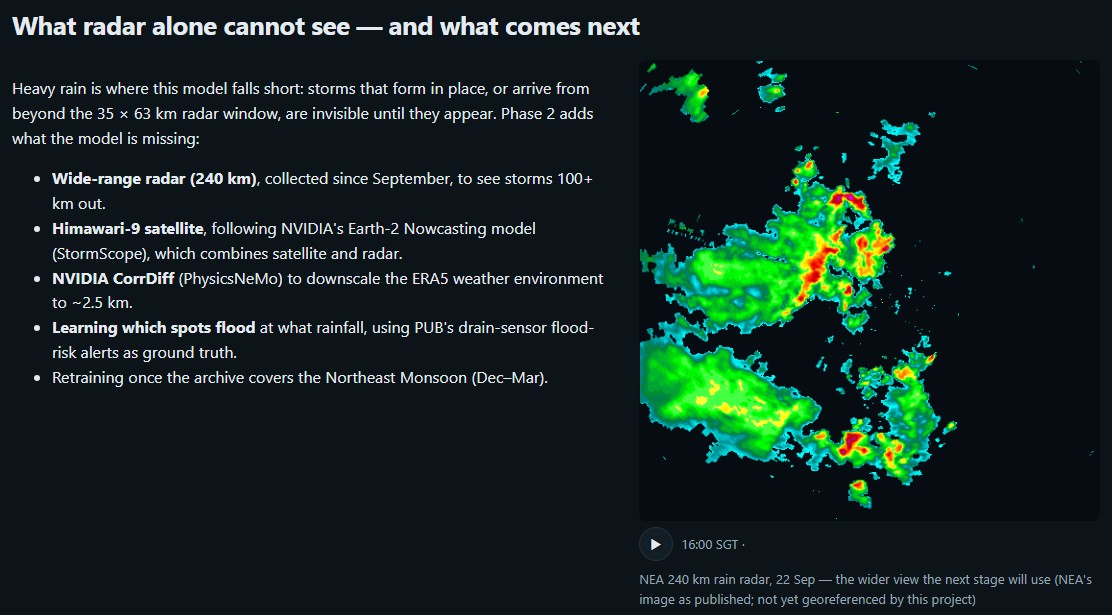
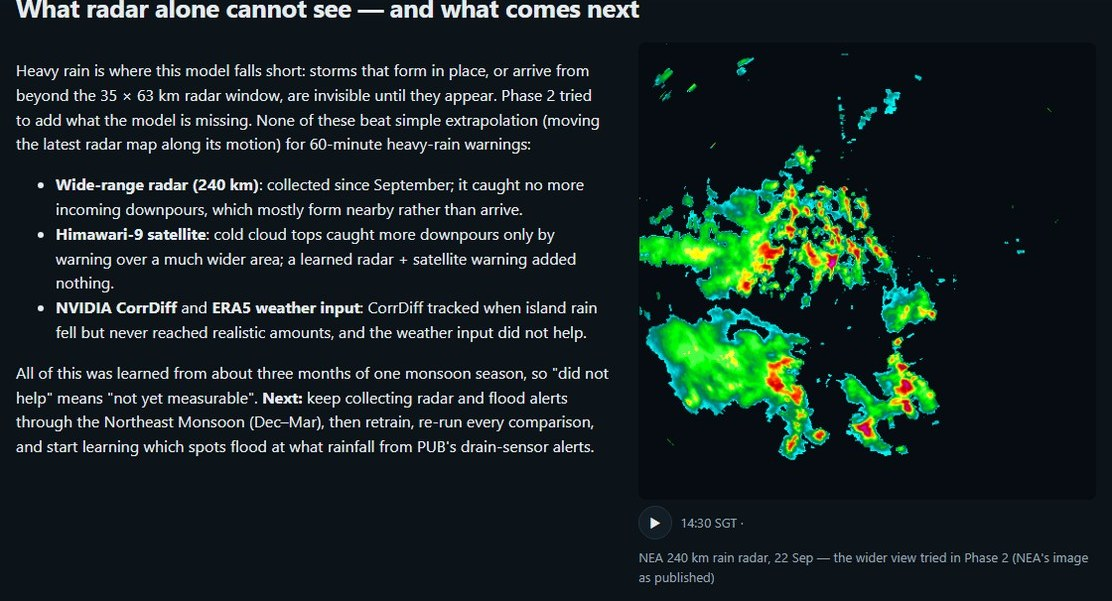
docs(todo): wrap-up done - collection-mode runbook and resume plan (mid-Jan check-in, ~Apr 2027 resume)
Resume point rewritten for collection mode (laptop on every ~6 days, monthly gap status,
optional case studies, Apr 2027 retrain + scripted re-runs incl. 30 Sep events in RESULTS 3/3b).
progress_tracking.json synced. README screenshot 6 retaken (headless) to show the updated
"what radar alone cannot see" section; caption updated.

diff --git a/tasks/todo.md b/tasks/todo.md
@@ -34,15 +34,20 @@
 - [x] Satellite Step 1 spike (2026-09-29): **GO (weak)**. Himawari cold-cloud rule + extrapolation at 60 min: incoming catch +28 pts [+7, +45], CSI -0.013 [-0.031, +0.018], but 5x warnings and precision 18% -> 9%; initiation barely caught (L036). Parallax ~16 km W, 6 km S. results/satellite_spike.json.
 - [x] Satellite Step 2A (2026-09-30): **DO NOT KEEP**. At matched warning volume, the radar+satellite classifier's CSI is 0.021 vs extrapolation's 0.093 (L_RS-E CSI -0.072 [-0.112,-0.005]). Hour-of-day features made both classifiers warn in the morning while the test storms came in the afternoon (L037). Post-hoc, without the hour features: satellite adds +0.000 [-0.023,+0.024] over radar, and neither beats extrapolation. Extrapolation stays the 60-min warning. Step 2B/3 not run. Satellite paused until a longer record (NE Monsoon). Verdict in `tasks/plan_satellite_step2.md`; results/satellite_warning{,_posthoc}.json.
 
-> **RESUME HERE (2026-09-30 morning):** nothing is running; everything is committed and pushed. Satellite Step 2A finished: DO NOT KEEP (see above). Himawari cache (21 May-27 Sep, ~0.5 GB) kept for a later retry.
-> **Direction (recommended 2026-09-30, user deciding):** stop new experiments. Every 60-90 min idea has failed on ~100 days of one monsoon season. Plan: (1) a half-day wrap-up, then (2) collect-only mode with a monthly `check_radar_gaps.py --status`, then (3) around Apr 2027, after the NE Monsoon: retrain, rerun the scripted comparisons incl. satellite, start F2.
-> **When the user says "start the half-day wrap-up":**
-> (a) README + docs/RESULTS "what we tried" + LIMITATIONS: add the satellite spike and Step 2A (the verdict tables are in plan_satellite.md / plan_satellite_step2.md) plus the summary "negative results at 60-90 min are data-limited";
-> (b) 27 Sep second case study (the unchecked item above: notebook 02 section, dashboard, docs/RESULTS);
-> (c) rebuild and verify the dashboard (`scripts/build_dashboard.py`, check in Chrome);
-> (d) remind the user of the pending LinkedIn post (content/linkedin_post_phase1.md);
-> (e) one commit per part, push.
-> Not decided yet: whether to wrap up at all. Do not start without the user. After restart run `python scripts/check_radar_gaps.py --status`. Checkpoint prune DONE 2026-09-29 (359 files deleted, list in tasks/repro/checkpoint_prune_list.txt; 11 referenced checkpoints kept, 3.2 GB; C: 164 GB free).
+> **RESUME HERE — COLLECTION MODE (since 2026-09-30).** Wrap-up done and pushed: 30 Sep case study, satellite
+> results + "negative results are data-limited" in README/RESULTS/LIMITATIONS/LESSONS, dashboard rebuilt and checked.
+> Nothing is running; the scheduled tasks collect by themselves.
+> **While collecting (Oct 2026 – Mar 2027):**
+> - Laptop on (and online) at least every ~6 days: NEA keeps only ~7 days of the 70 km radar (240 km: ~30 days).
+> - Monthly: `python scripts/check_radar_gaps.py --status`; `python scripts/collect_flood_labels.py --status`.
+> - After a notable flash flood (optional): sync labels, geocode, preprocess, rebuild eval dataset, then
+>   `case_study_forecasts.py --name <ddmon>` x3 leads + notebook 02 §7 / RESULTS §4 / dashboard `CASES`.
+> - Himawari needs no collection (NOAA public archive; download when needed).
+> **Mid-Jan 2027 (optional check-in):** data health, flood-label count, any case studies.
+> **~Apr 2027 (resume):** retrain on both seasons (new split pinned by date), re-run the scripted comparisons
+> (motion input, calibration/hybrid, 240 km, satellite without clock features — L037), add the 30 Sep and later events
+> to RESULTS §3/§3b, start F2 (per-location drain-alert model) if enough alerts. Still pending for the user: the
+> LinkedIn post (content/linkedin_post_phase1.md).
 
 ### A. Repo hygiene & docs
 - [x] A1 cleanup: portable launchers, results/ablations/ (+README), docs/history/, spec wording, per-lead eval output (5c1a431). ERA5 tmp files KEPT: they are download_era5.py's cache (17 MB, gitignored)

diff --git a/README.md b/README.md
@@ -33,8 +33,8 @@ Screenshots from the [live dashboard](https://beese54.github.io/singapore-diffus
 | **Overview.** What the model does, the headline numbers, and why minutes matter. | **Would it have warned us?** The 10:35 forecast for the 27 Sep flood: the model warns (3 of 8 futures), the naive forecast doesn't, heavy rain came. |
 | ![Chart: the model's warning bars rise before the observed rain at the flood site](docs/img/dashboard/3_flood_site_chart_27sep.jpg) | ![Scorecard: catch rate and precision of heavy-rain warnings by lead time](docs/img/dashboard/4_when_it_warns_is_it_right.jpg) |
 | **Warnings before the rain.** Bars (model warnings) rise before the bold line (observed rain); red dashes mark the flood report. | **The honest scorecard.** 30 min ahead: catches 29% of downpours, right 1 time in 3 (27× chance); 60/90 min: no better than the naive forecast (at 60 min, plain extrapolation is the better heavy-rain warning). |
-| ![Noise to rain: the diffusion model's 50-step denoising](docs/img/dashboard/5_noise_to_rain.jpg) | ![What comes next: NEA's 240 km radar and the Phase 2 plan](docs/img/dashboard/6_whats_next_240km_radar.jpg) |
-| **How it draws a forecast.** From random noise to a rain map in 50 steps, guided by the last 30 minutes of radar. | **What comes next.** The wider 240 km radar, satellite, NVIDIA CorrDiff, and PUB's drain-sensor alerts as flood ground truth. |
+| ![Noise to rain: the diffusion model's 50-step denoising](docs/img/dashboard/5_noise_to_rain.jpg) | ![What radar alone cannot see: NEA's 240 km radar and what Phase 2 found](docs/img/dashboard/6_whats_next_240km_radar.jpg) |
+| **How it draws a forecast.** From random noise to a rain map in 50 steps, guided by the last 30 minutes of radar. | **What Phase 2 found.** Wider radar, satellite, CorrDiff and ERA5 did not beat simple extrapolation yet; next is more data through the Northeast Monsoon. |
 
 ## Results in one table
 
